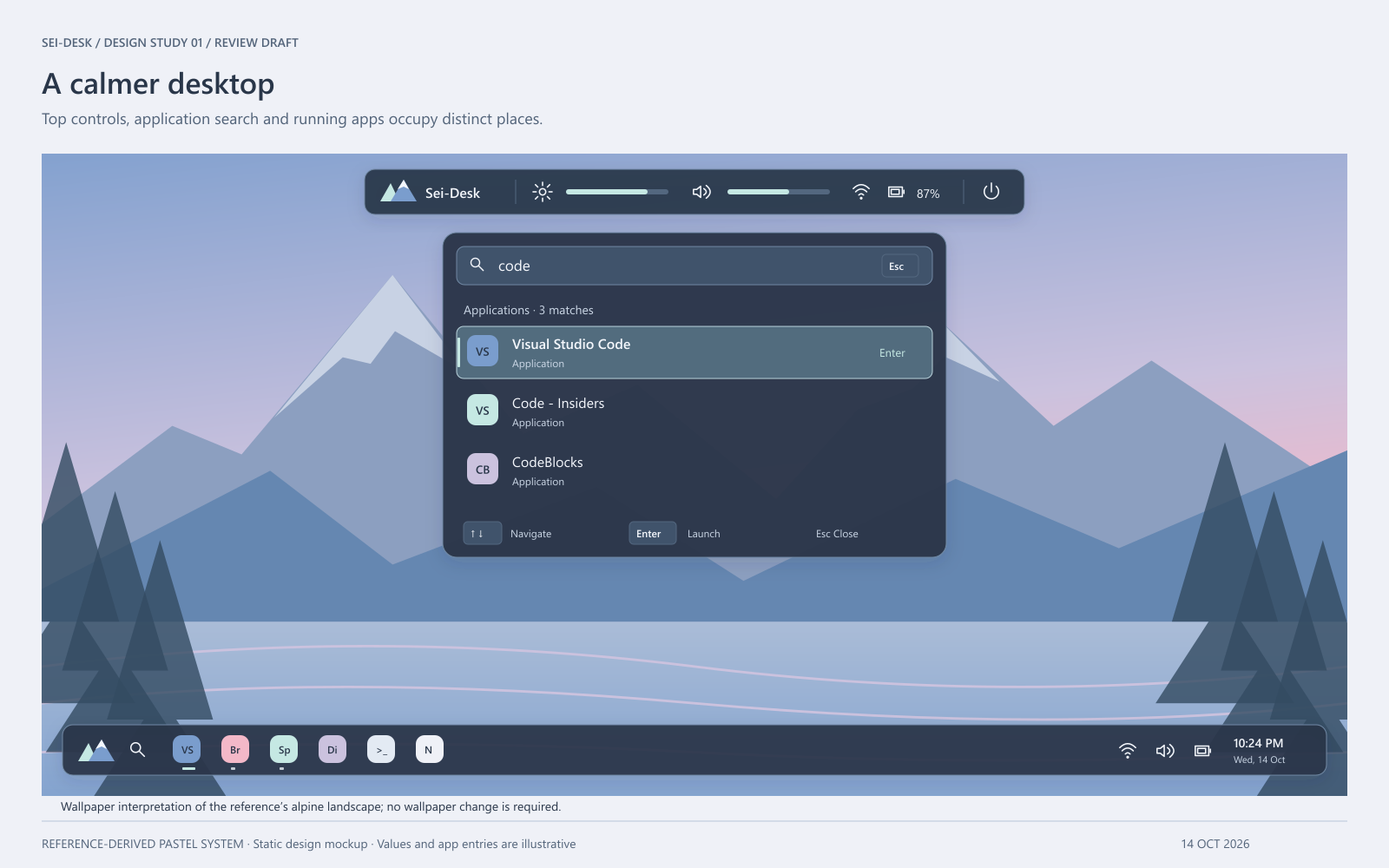
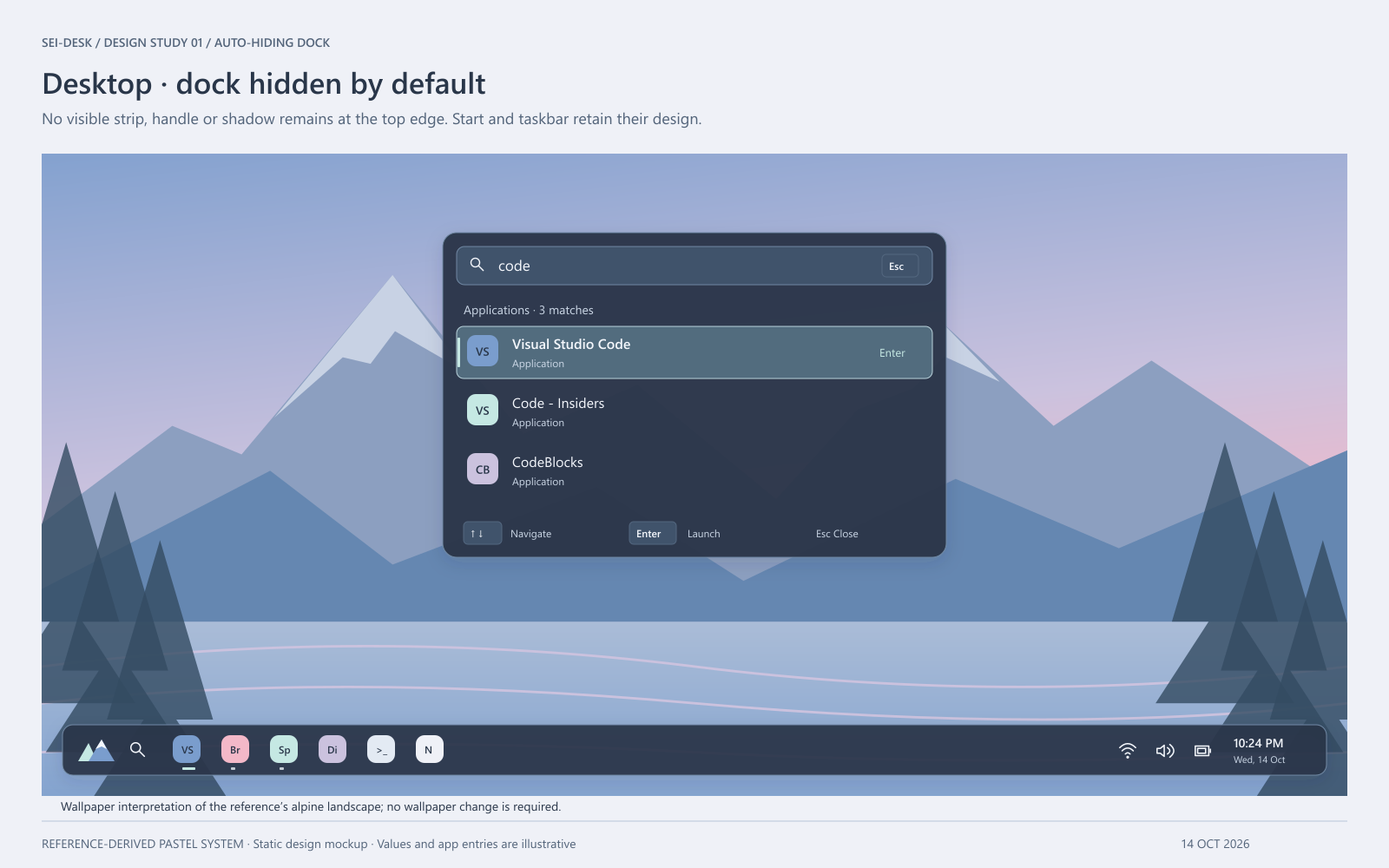
docs: specify auto-hiding top dock behavior and mockups

Changed region(s): [[0.0312, 0.031, 0.5, 0.155], [0.25, 0.186, 0.75, 0.248]]

diff --git a/docs/design/SEI-DESK-UI-UX-SPEC.md b/docs/design/SEI-DESK-UI-UX-SPEC.md
@@ -1,6 +1,6 @@
 # Sei-Desk UI/UX design specification
 
-**Status:** proposed design for review, 14 October 2026. **Deliverables:** written specification and eight static vector mockups, with PNG previews. Nothing in this package implements application behavior. All metrics, application entries, dates and device names in mockups are illustrative.
+**Status:** proposed design for review, 14 October 2026. **Deliverables:** written specification and eleven static vector mockups, with PNG previews. Dock behavior revised to auto-hide on 14 October 2026. Nothing in this package implements application behavior. All metrics, application entries, dates and device names in mockups are illustrative.
 
 ## 1. Source of truth and design interpretation
 
@@ -16,13 +16,13 @@ The mockup wallpaper is an original simplified vector interpretation of the refe
 
 ## 2. Product structure and release boundary
 
-Sei-Desk is a Windows desktop customization and basic monitoring application. Mode: **Operate**. The primary user wants quick application access, persistent desktop controls and readable resource information without a busy desktop.
+Sei-Desk is a Windows desktop customization and basic monitoring application. Mode: **Operate**. The primary user wants quick application access, readily accessible desktop controls and readable resource information without a busy desktop.
 
 | Surface | Purpose | Initial release |
 | --- | --- | --- |
 | Bottom taskbar | Launch pinned apps; switch running windows; compact status and time | Yes, subject to Windows integration validation |
 | Start launcher | Find and launch installed applications from the keyboard | Yes, Windows-key behavior subject to validation |
-| Top quick-control dock | Brightness, audio, session/power actions, compact indicators | Yes, individual controls depend on supported hardware/APIs |
+| Top quick-control dock | Auto-hiding brightness, audio, session/power actions, compact indicators | Yes, individual controls depend on supported hardware/APIs |
 | Overview | CPU, memory, disk, network and limited health readings | Yes |
 | Applications | Supporting catalog, launch and pin management | Yes, supports launcher/taskbar |
 | Settings | Supporting appearance and behavior controls | Yes, bounded to these surfaces |
@@ -34,16 +34,19 @@ No window tiling, marketplace, assistant, gaming features, extra system utilitie
 
 | Plate | Design artifact | Coverage |
 | --- | --- | --- |
-| 01 | [Desktop composition](mockups/01-desktop-composition.svg) | Wallpaper, dock, open searched Start, bottom taskbar |
+| 01 | [Desktop — dock hidden](mockups/01-desktop-composition.svg) | Default desktop, no top strip, unchanged Start and taskbar |
+| 01B | [Desktop — dock revealed](mockups/01b-desktop-dock-revealed.svg) | Same composition after non-activating top-edge reveal |
 | 02 | [Taskbar states](mockups/02-taskbar-states.svg) | Default, running, active, hover, keyboard focus |
 | 03 | [Start states](mockups/03-start-launcher-states.svg) | Empty query with pins, matches, moved selection, no results |
-| 04 | [Quick-control dock](mockups/04-quick-control-dock.svg) | Default dock, brightness, volume/mute, power, confirmation, unavailable |
+| 04 | [Quick-control dock](mockups/04-quick-control-dock.svg) | Revealed dock, brightness, volume/mute, power, confirmation, unavailable |
 | 05 | [Monitoring](mockups/05-system-overview.svg) | Four metrics, histories, basic health and data-failure rule |
 | 06 | [Applications](mockups/06-applications-catalog.svg) | Search, All/Pinned, alphabetical catalog, selected app and actions |
 | 07 | [Settings](mockups/07-appearance-behavior-settings.svg) | Pastel theme, accents, translucency, motion, Windows-key status |
 | 08 | [Future optimizer](mockups/08-future-optimization-concept.svg) | Selection → review → progress → failure/recovery |
+| 09 | [Auto-hide states](mockups/09-auto-hide-dock-states.svg) | Hidden, revealing, visible, expanded, pending, hiding |
+| 10 | [Expanded dock interaction](mockups/10-expanded-dock-interaction.svg) | Anchored volume, focus, pointer bridge and confirmation protection |
 
-Plates are presentation boards, not pixel-for-pixel runtime screenshots. Most boards are 1600 × 1000; the launcher state board is 1600 × 1080. Their captions and margins are outside application chrome. Four quick-control variants are presented together for review, although only one popover opens in use. Shell windows and widgets are enlarged on boards for legibility; the following DIP measurements govern the proposed runtime layout. SVGs are self-contained static design assets without scripts or browser-dependent application behavior.
+Plates are presentation boards, not pixel-for-pixel runtime screenshots. Most boards are 1600 × 1000; the launcher state board is 1600 × 1080 and the dock state board is 1600 × 1260. Their captions and margins are outside application chrome. Four quick-control variants are presented together for review, although only one popover opens in use. Shell windows and widgets are enlarged on boards for legibility; the following DIP measurements govern the proposed runtime layout. SVGs are self-contained static design assets without scripts or browser-dependent application behavior.
 
 ## 4. Color tokens and provenance
 
@@ -107,13 +110,13 @@ Icons: 20 DIP controls, 24 DIP application/taskbar glyphs, 32 DIP launcher/catal
 
 ## 6. Desktop composition, positioning and layering
 
-Target composition at 1920 × 1080 physical pixels / 100% scale: bottom taskbar inset 12 DIP horizontally and 10 from bottom, height 58; top dock centered at y12, width about 760, height 52; launcher centered horizontally, width 580, top edge 80. The reference uses approximately 40% screen width for its dock and 30% for its launcher; treat these as proportional evidence, not a requirement to stretch on ultrawide displays. Keep intrinsic sizes with max-width clamping.
+Target composition at 1920 × 1080 physical pixels / 100% scale: bottom taskbar inset 12 DIP horizontally and 10 from bottom, height 58; top dock hidden by default, revealed centered at y12, width about 760, height 52; launcher centered horizontally, width 580, top edge 80. The reference uses approximately 40% screen width for its dock and 30% for its launcher; treat these as proportional evidence, not a requirement to stretch on ultrawide displays. Keep intrinsic sizes with max-width clamping.
 
 Launcher height follows content, nominal 300–440 DIP with at most five visible result rows and an internal scrollbar for more. Keep a minimum 12 DIP gap below the dock; never cover it. Anchor brightness/volume/power popovers 8 DIP below their owning control; clamp within the monitor with 12 DIP safe margins. Popovers are 280–320 DIP wide. Management window nominal size 1040 × 680, minimum 800 × 560 DIP. Use normal resizable window behavior; never cover the taskbar deliberately.
 
-Layer order within the design: desktop wallpaper → ordinary applications → desktop bars where OS policy permits → active launcher or dock popover → local menu/tooltip → confirmation dialog. This expresses visual intent only. Actual topmost behavior, appbars, exclusive fullscreen, focus restrictions and secure-desktop boundaries require Windows validation. Do not place bars above lock screen, UAC or exclusive fullscreen. Close the active transient surface when opening another; launcher and dock popovers never compete for focus. Tooltips do not receive keyboard focus.
+Layer order within the design: desktop wallpaper → ordinary applications → desktop bars where OS policy permits → active launcher or dock popover → local menu/tooltip → confirmation dialog. This expresses visual intent only. Actual topmost behavior, appbars, exclusive fullscreen, focus restrictions and secure-desktop boundaries require Windows validation. Do not place bars above lock screen, UAC or exclusive fullscreen. A passive pointer reveal of the dock may coexist with Start without changing its focus. Deliberately activating a dock control closes Start; invoking Start closes dock popovers and hides the dock unless a power confirmation is unresolved. Launcher and dock popovers never compete for focus; confirmation ownership rules in section 9 take precedence. Tooltips do not receive keyboard focus.
 
-The taskbar and top dock remain at fixed edges in v1. Reserve bottom workspace if supported; separately validate whether top dock requires reserved space or must yield to maximized windows. Never imply overlay positioning alone prevents overlap. Primary-monitor-only is the proposed first-release default; a launcher invoked from a different monitor uses that monitor’s available work area, pending validation. Additional replicated taskbars/docks are not assumed. Explicitly test moved/disconnected displays and negative desktop coordinates.
+The taskbar stays bottom-mounted; the auto-hiding dock retains a fixed top-center revealed position. Reserve bottom workspace if supported. The top dock reserves **no permanent workspace**: hidden means no visible strip or layout gap; deliberate reveal temporarily overlays the application without resizing it. Maximized-window, topmost and input-routing behavior still require Windows validation; visual positioning alone cannot guarantee non-interference. Primary-monitor-only remains the proposed first-release default. A launcher invoked from a different monitor uses that monitor’s available work area, pending validation. Do not replicate docks or activate other monitors implicitly. Recompute the dock’s physical-edge sensor after scaling, display movement/disconnection or primary-display change, including negative desktop coordinates. See section 9 for suppression and focus rules.
 
 ## 7. Taskbar behavior and states
 
@@ -163,17 +166,98 @@ Each result row: 32 DIP application icon, name, “Application” subtitle and E
 
 Windows-key interception must be designed around press/release timing, left/right Windows keys, repeat suppression, modifier combinations, focus policy and recovery from failed hooks. Validate it in an isolated future technical investigation. Provide clickable Start/search access regardless; show the settings row as unavailable until this capability is validated. These are requirements, not a claim that iced can capture global keys.
 
-## 9. Top dock and control panels
+## 9. Auto-hiding top dock and control panels
 
-Default dock groups: small brand mark/name; brightness with compact slider; volume with compact slider; network/battery status; power/session button. Battery appears only when a battery exists; no-battery devices omit it without a broken icon. Network is status only in v1. The brand button opens the Overview window. Dock controls have accessible labels and numeric values in expanded panels; default sliders retain full hit lanes.
+This revision changes dock visibility and its coordination only. It preserves the existing palette, typography, compact controls, 760 × 52 DIP revealed geometry, 12 DIP top inset, 12 DIP radius, icon family, fine border and slate translucent surface. Taskbar, Start, monitoring, catalog, settings artwork and future optimizer remain visually unchanged. The desktop compositions differ only in dock visibility and review captions. An always-visible top dock is superseded by this section.
 
-Brightness: 0–100%, proposed default example 80%; label the controlled display. Click its button opens the brightness panel; drag changes the requested value. Keyboard arrows adjust by 1, PageUp/PageDown by 10, Home/End min/max. Only report success after the OS acknowledges the change. Unsupported display: disable slider and explain “Brightness unavailable for this display”; do not imply every external monitor supports brightness changes. A failed write returns to the last confirmed value and shows Retry.
+### 9.1 Default, activation zone and geometry
 
-Volume: 0–100%, example 60%; current device name, slider and Mute button. Space activates focused mute button; arrows control focused slider. Mute preserves the prior volume value; use a crossed-speaker icon plus “Muted” text. Unmuting restores that value. No output device shows “No audio output device” and a disabled slider; do not introduce a device-management utility. The panel has no unexplained settings cog.
+Default state is **Hidden**, including at startup and after dismissal. The entire dock, border and shadow are outside the monitor viewport or fully non-rendered and non-interactive. No handle, thin background strip, persistent glow or activation-zone graphic remains. Plate 09’s arrows, labels and diagram geometry are reviewer annotations, not product chrome.
 
-Power menu order: Lock, Sleep, divider, Restart, Shut down. Lock acts immediately; Sleep acts immediately when supported. Restart/Shut down open a confirmation with explicit action name, “Save your work…” and Cancel initially focused. Escape cancels. Do not auto-confirm on focus loss; dismiss without executing. Disabled actions explain OS/hardware limitations. Errors remain visible and restore menu usability. No timed power action or hidden forced shutdown is proposed.
+Proposed reveal sensor: **one physical pixel high** at the supported monitor’s physical top edge, horizontally centered and spanning only the dock’s revealed width (about 760 DIP converted at that monitor’s scale, clamped to screen width minus 24 DIP). It is not a full-screen-width band. Entry is detected without a visible surface and without consuming mouse clicks, wheel events or window-drag input; the reliable sensing mechanism must be validated. Trigger on actual entry, without dwell, only when no pointer button is held and no suppression condition applies. A pointer parked on the edge after dismissal must leave and re-enter before revealing again. This avoids an immediate reopen after Escape.
 
-Opening a dock panel closes Start and any other dock panel. Escape dismisses and returns focus to its dock button; outside click dismisses. Sliders should not steal focus merely from pointer hover. Tooltip delay 500 ms; tooltip dismissal immediate on pointer exit or key input. Proposed motion: 120–160 ms opacity/tint transitions, maximum 4 DIP vertical popover movement, no spring/zoom. Reduce motion makes transitions immediate. None of these animations is required for first implementation feasibility.
+The physical edge is the monitor’s top coordinate, not desktop y=0 and not the maximized app’s client edge. A stacked monitor boundary needs explicit validation; v1 does not create sensors on unsupported monitors or promise a hard pointer stop at every monitor edge. The sensor must remain one physical pixel at 125–200% scaling, rather than accidentally become a large DIP strip. Re-evaluate its width/position with each monitor/DPI change; disable stale geometry until recalculated.
+
+Reveal slides down from fully outside the monitor (including shadow) to the established y12 DIP position. It must be clipped at that monitor boundary, with no animation spilling onto a monitor above it. Shadow disappears with the dock. While visible, a logical pointer corridor spanning the dock width covers the 12 DIP gap from edge to dock, so the user can travel from the sensor to its controls. The corridor is used only to decide visibility and does not intercept clicks. Expanded panels retain their 8 DIP gap; a corridor only as wide as the overlap between the dock and associated panel bridges that gap. No large invisible rectangle surrounds the desktop. Corridor membership is active only while the dock is revealing/visible, never an extra hidden-state activation area.
+
+### 9.2 Timing and six states
+
+| Parameter | Proposed value | Rule |
+| --- | --- | --- |
+| Reveal trigger | Immediate on eligible edge entry | No dwell or focus request |
+| Reveal animation | 180 ms | Subtle slide down, decelerating; acceptable tuned range 150–220 ms |
+| Dismissal delay | 450 ms | Starts only after the last interaction hold ends |
+| Hide animation | 180 ms | Subtle slide up, gently accelerating; acceptable range 150–220 ms |
+| Return before delay expires | Cancel immediately | No queued hide or countdown UI |
+| Reverse during animation | Current position → new endpoint | No jump or restart from an endpoint; duration proportional to remaining travel, capped at 180 ms |
+| Reduced motion | 0 ms positional animation | Immediate reveal/hide; retain 450 ms dismissal delay and all protections |
+| Tooltip | Existing 500 ms delay | Never extends the dock’s lifetime by itself |
+
+| State | Visual specification | Entry, exit and interaction |
+| --- | --- | --- |
+| **Hidden** | No visible dock, shadow or strip; no focusable off-screen controls | Eligible edge entry or explicit keyboard/menu request → Revealing. Suppressed entry does nothing. |
+| **Revealing** | Cropped dock translates down; pastel/slate tokens unchanged | On arrival → Visible. If pointer leaves early without any hold, finish the short reveal and enter Pending; do not flicker. Keyboard invocation requests focus only after dock is available. |
+| **Visible** | Complete dock at normal position | Pointer within dock/entry corridor holds it. Open control → Expanded. No hold → Pending. |
+| **Control expanded** | Full dock plus anchored panel; active owner gets expanded cue | Pointer within dock, panel or bridge holds it. Slider capture, keyboard session or confirmation suspends dismissal. Losing all holds → Pending with panel still visible during grace. |
+| **Dismissal pending** | Same full surface; no fade, dimming, timer badge or geometry change | Wait 450 ms. Return to dock/panel/bridge or acquire any hold → Visible/Expanded. Expiry with no hold → close transient panel and Hiding. |
+| **Hiding** | Dock translates up; panel already closed; no lingering shadow | Completed → Hidden. Eligible edge or dock re-entry before completion reverses smoothly → Revealing. Once fully hidden, only sensor/explicit access can reopen it. |
+
+Written transition path: **Hidden → Revealing → Visible ↔ Expanded → Pending → Hiding → Hidden**. Re-entry cancels Pending. Any valid visibility hold blocks Pending/Hiding. Re-entry during Hiding reverses from the current position. These states do not authorize any implementation in this task.
+
+A visibility hold exists when at least one condition is true: pointer is within the dock/panel/defined bridges; a slider or pressed control owns a pointer interaction; a keyboard session owns focus within the dock/panel; or a dock-owned power confirmation is unresolved. A panel merely being open, or a control retaining incidental focus from a pointer click, is not an indefinite keyboard hold. Pointer motion alone does not cancel a keyboard session. Clear that session on explicit close, deliberate external interaction or genuine focus transfer outside the dock and its owned windows. Track owned popovers as one interaction, so changing between separate native windows does not look like leaving the application.
+
+### 9.3 Retained quick controls and dismissal ownership
+
+Control groups remain: brand/name, brightness, volume/mute, compact network/battery status, and power/session. Battery is omitted on devices without a battery. Network is status only; brand opens Overview. Default inline sliders keep full hit lanes. No additional system utility is added.
+
+Brightness remains 0–100%, example 80%, labeled by controlled display. Arrow keys change by 1, PageUp/PageDown by 10, Home/End to endpoints. Unsupported display shows the existing disabled slider/explanation. Failed writes revert to the last confirmed value with Retry. Volume remains 0–100%, example 60%, with current audio device and a Mute button. Space activates the focused Mute button; muting preserves volume and adds the crossed-speaker icon and “Muted” text. No output device retains the disabled state. Percentages and thumb positions match.
+
+Opening brightness/volume/power closes any other dock panel. Clicking outside a transient panel closes it immediately; if no other hold exists, start the 450 ms dock delay. Do not hide a dock that is still being hovered. Slider press/drag owns a hold until release or explicit cancellation, even if the pointer leaves the panel, dock, monitor or screen. Release outside starts a fresh 450 ms delay; release inside resumes normal visibility. Genuine pointer-capture loss must end editing safely at the last confirmed value, not leave the dock stuck open. Never dismiss halfway through an active drag.
+
+Power menu remains Lock, Sleep, divider, Restart, Shut down, with supported/disabled states unchanged. Restart/Shut down open an owned confirmation with Cancel initially focused. **A confirmation never auto-dismisses:** pointer exit, the dismissal timer, ordinary focus loss or app switching cannot close it. Outside click is ignored for confirmation dismissal and never confirms an action. Escape and explicit Cancel cancel; the explicit action button alone accepts. Dock and dialog retain a visibility hold until resolution. A background confirmation remains recoverable; do not force it above a full-screen app or secure desktop. Returning to Sei-Desk restores access to it. Actual Windows shutdown/UAC/session behavior remains unverified.
+
+After resolving a confirmation, return focus to its initiating power button only if Sei-Desk still owns focus; otherwise preserve the app the user switched to. Re-evaluate holds and start a fresh delay if none remains. Do not resume an old expired timer. Pending confirmation also prevents Start invocation from replacing/closing it; preserve the confirmation and offer it when Sei-Desk next receives deliberate interaction. Do not intercept unrelated Windows shortcuts to force attention.
+
+### 9.4 Keyboard, focus and accessibility
+
+Proposed explicit shortcut: **Ctrl+Alt+Q**, subject to registration/conflict and assistive-technology validation. It reveals the dock and focuses its first enabled control. Do not enable an unavailable shortcut silently; provide a keyboard-reachable **Open quick controls** action in the existing Sei-Desk control menu, with no new taskbar visual. Document shortcut availability in user help. This is a required access route, not an implemented global shortcut.
+
+Pure edge hover reveals a non-activating dock without stealing focus from the active application or Start. Clicking a control deliberately may transfer focus. Pressing Tab or an adjustment key within a focused dock begins a keyboard session, which prevents auto-hide without any inactivity timeout. Tab/Shift+Tab cycles the enabled dock controls and, when expanded, the associated panel controls; disabled items are explained and skipped as actions. Enter/Space opens or activates the focused control. Slider arrows retain the existing adjustment behavior. All focus indicators are independent of hover.
+
+Keyboard order: brand/Overview → Brightness → its inline slider if present → Volume → its inline slider if present → Power; passive status icons do not become tab stops unless they expose useful accessible details. Opening a panel moves focus to its primary slider or first enabled menu action. While a transient panel is open, its local Tab sequence stays within that panel; Escape closes it and returns to the owning dock button. A second Escape closes the dock and requests restoration to the previously active application if permitted. With no panel, Escape closes the dock directly. Never hide focused controls or leave focus on an off-screen element. If all controls are disabled, focus a readable explanation and allow Escape.
+
+On deliberate focus transfer outside the dock and owned panels, end the keyboard hold and close transient panels; if the pointer is also outside, start a fresh 450 ms dismissal delay. Confirmation dialogs are the explicit exception. When hiding due to pointer-only departure, do not issue a foreground/focus request. Ordinary app switching should retain the newly active application.
+
+Visible keyboard focus is a 2 DIP pale outline on slate; a panel’s owner also has a muted-mint expanded indicator and an expanded accessibility state. Provide names, roles, slider values, mute state and panel relationships. Announce explicit keyboard reveal and expanded/collapsed changes once; do not announce passive pointer hover or timer ticks. Hidden controls are absent from keyboard traversal/accessibility navigation until deliberately revealed. An accessible named control-menu route is essential because an invisible edge has no discoverable screen-reader target. Validate actual iced/backend UI Automation and Narrator behavior; the artwork is not proof of accessibility support. Respect reduced motion from system or existing setting, using the more restrictive preference; opaque fallback remains available.
+
+### 9.5 Windows desktop constraints and surface coordination
+
+| Situation | Intended behavior | Engineering validation required |
+| --- | --- | --- |
+| Normal desktop / windowed application | Eligible sensor entry reveals; no foreground focus change | Physical-coordinate pointer sensing and non-activating native window behavior |
+| Maximized application | No top workspace reserved, no resize/reflow; one-pixel centered sensor passes underlying input through; revealed dock temporarily overlays only its own bounds | Input pass-through, browser tabs/titlebars, top-edge window drags and native taskbar coexistence; a transparent window alone is not proof |
+| Pointer button held / window being dragged | Do not trigger a hidden dock; active dock slider capture remains protected | Correct distinction between external drag and owned control capture |
+| Exclusive or borderless full-screen on supported monitor | Suppress automatic reveal and clear pending edge activation; hide ordinary dock UI at a safe interaction boundary | Reliable full-screen detection, presentation/game behavior, topmost changes and capture cleanup |
+| Explicit keyboard/menu invocation in full-screen | Do not force an overlay or steal focus; wait for exit, then require a fresh deliberate invocation | Shortcut delivery/conflicts and safe user feedback; no queued surprise reveal after exit |
+| Full-screen while dialog unresolved | Keep confirmation state; suspend overlay presentation until user returns, without discarding dialog or applying anything | Owned dialog persistence, Z-order and safe re-presentation; secure desktop always takes precedence |
+| Multiple monitors / scaling | Primary-monitor dock only in v1; derive sensor from that monitor’s physical edge, convert DIP geometry separately, clamp panel to same monitor | Negative coordinates, stacked edges, mixed DPI, primary change, disconnect/reconnect and monitor-bound clipping |
+| Custom Start opens | Close dock transient panel and hide dock; Start keeps its existing keyboard semantics, subject to unresolved confirmation exception | Shared surface ownership and focus restoration |
+| Dock hovered while Start is open | Passive reveal only; Start retains focus. Activating a dock control closes Start first | Avoid focus-loss dismissal during passive reveal |
+| Windows taskbar / custom taskbar | Bottom design unchanged; no new top appbar reservation; control-menu access opens dock deliberately | Shell Z-order, Explorer restarts, desktop switch and taskbar menu routing |
+| Lock screen / UAC / secure desktop | Suppress sensor and overlays; never present above secure desktop | Session changes, cancellation and restore without stale topmost state |
+
+Topmost intent is scoped to deliberate visible use on the normal desktop. It is not an instruction to keep a hidden always-on-top window intercepting input or to override foreground policy. All sensor windows, capture, Z-order, full-screen detection and focus changes require future Rust/Windows integration validation. Use iced for native UI composition/animation; an iced transparent window or ordinary mouse subscription alone does not establish global physical-edge sensing. No WebView2, WinUI 3 or web frontend is introduced.
+
+### 9.6 Future acceptance scenarios — specified, not executed
+
+1. Startup shows no dock strip/shadow; exact sensor entry reveals within the 180 ms animation without losing editor/Start focus.
+2. Moving through the 12 DIP entry corridor and 8 DIP panel bridge never dismisses the dock; leaving for 449 ms then returning cancels hiding.
+3. Leaving all holds for 450 ms closes the transient panel and starts a 180 ms hide; return mid-hide reverses without a jump.
+4. Drag a slider outside its panel for longer than 450 ms: dock remains; releasing outside starts a new full delay.
+5. Reveal by keyboard, navigate and pause for several seconds: dock remains visible. Escape closes panel then dock and restores focus appropriately.
+6. Open Restart confirmation, leave the dock, switch apps and wait: it remains unresolved/recoverable; outside click never confirms or dismisses it.
+7. Repeat with reduced motion: no positional animation; delay, focus and confirmation protections unchanged.
+8. Test maximized browsers, window drags, borderless/exclusive full-screen, UAC, stacked monitors and mixed 100–200% scaling; no intercepted edge click, stale sensor, permanent workspace gap or unsolicited overlay.
 
 ## 10. Monitoring dashboard
 
@@ -246,7 +330,7 @@ Current official iced window settings expose decoration, positioning, transparen
 | Running app indicators / activate | Window enumeration, ownership/grouping, foreground restrictions, elevated windows | Show supported windows; explain unavailable activation rather than claim success |
 | Tray icons | Explorer notification-area behavior / third-party tray hosting | Sei-Desk-owned status indicators; retain Windows tray access |
 | Slate glass | Compositor backdrop blur, transparency, reduced transparency preferences, performance | Opaque slate with same borders and hierarchy |
-| Top dock placement | Work area reservation, maximized windows, topmost/fullscreen behavior | Clamp/yield appropriately; no permanent obstruction |
+| Auto-hiding top dock | Physical-edge sensing, non-activating/topmost window, monitor clipping, owned-popover focus, capture, full-screen suppression | No permanent top reservation; suppress unsupported automatic reveal, retain explicit keyboard/menu access; validate section 9 scenarios |
 | Brightness | Built-in display versus external monitor interfaces and capability detection | Disabled control with display-specific explanation |
 | Volume / mute | Audio endpoint discovery, volume writes, device changes | No-device/unavailable state; last confirmed value |
 | Session / power | Lock/sleep/restart/shutdown support, permission, cancellation and failure | Supported actions only, explicit confirmation for destructive session actions |
@@ -276,7 +360,8 @@ Plate 08 uses “Example change A” deliberately; it illustrates the interactio
 - [x] Sampled palette recorded with coordinates; derived colors distinguished from evidence.
 - [x] Pastel wallpaper and light application surfaces remain coherent with slate floating overlays.
 - [x] Taskbar switches/launches; Start searches apps; top dock controls hardware/session actions.
-- [x] Eight deliverables include launcher and taskbar states, control panels, supporting pages and future concept.
+- [x] Eleven plates include the original module designs plus dock-hidden/revealed compositions, six auto-hide states and expanded-control interaction.
+- [x] Dock timing, activation zone, keyboard ownership, slider capture and non-dismissing confirmations documented.
 - [x] Component geometry, focus, pointer/keyboard routes, layers, fallback behavior and scaling documented.
 - [x] Rust + iced constraints respected; unverified Windows behaviors explicitly separated.
 - [x] Optimizer clearly outside initial release; no unrelated features introduced.
